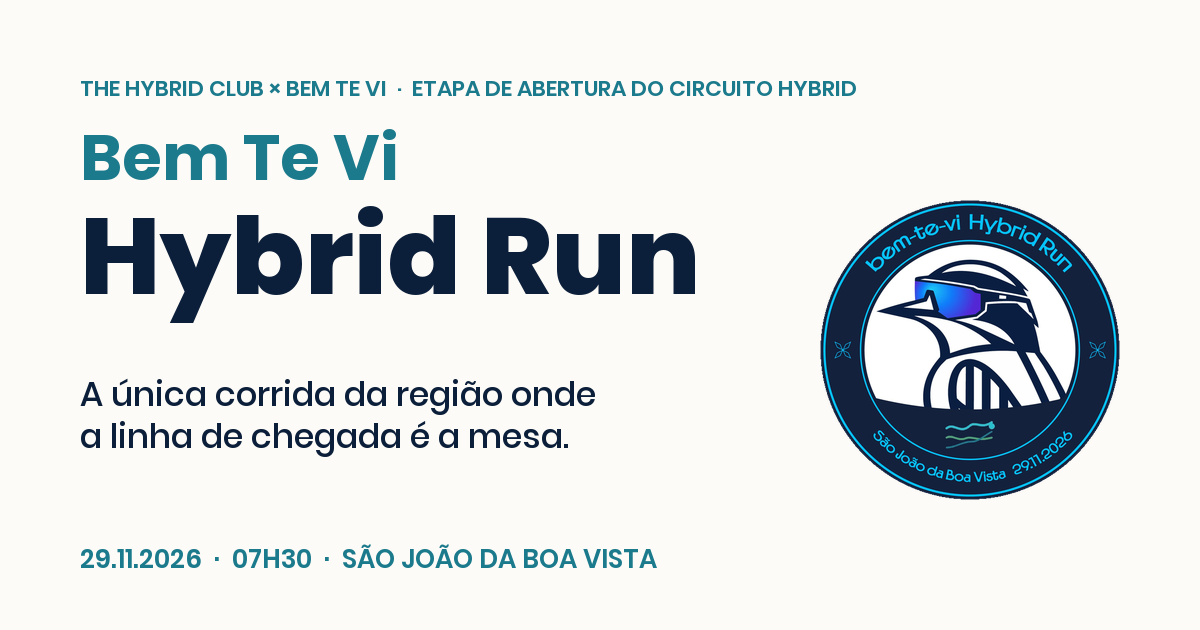
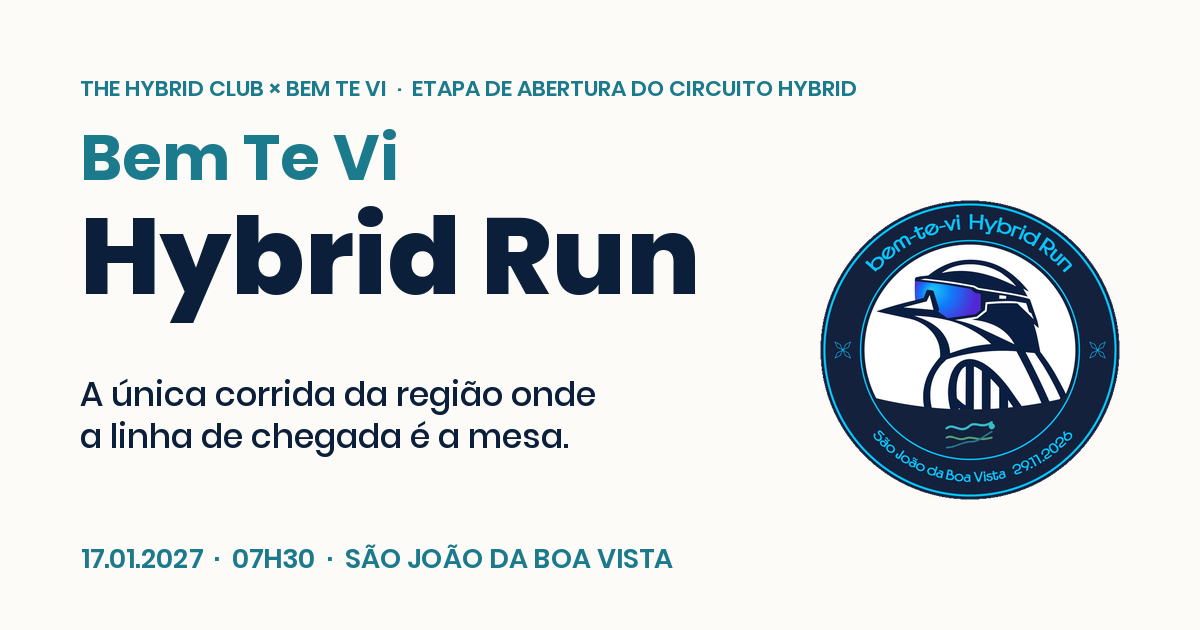
Nova data 17/01/2027 e valor único R$ 130
Claude-Session: https://claude.ai/code/session_0129xWcRVQwWNUDRJ4S1sSdz

Changed region(s): [[0.0617, 0.8444, 0.555, 0.9048]]

diff --git a/src/lib/lotes.js b/src/lib/lotes.js
@@ -56,6 +56,7 @@ export function loteState(event, now) {
 
 // Selo do hero. urgent = faltando 3 dias ou menos para virar o lote.
 export function badge(state) {
+  if (state.kind === 'lote' && state.lote.badge) return { text: state.lote.badge, urgent: false };
   if (state.kind === 'lote') {
     const n = daysLeft(state.msLeft);
     const label = state.lote.label.toUpperCase();
@@ -75,7 +76,7 @@ export function priceFor(event, state, distId, half = false) {
   if (!lote) return { current: null, next: null, label: 'Inscrições encerradas' };
   const current = lote.prices[distId] * f;
   const next = state.next ? { label: state.next.label, price: state.next.prices[distId] * f } : null;
-  const label = state.kind === 'fechado' ? 'No balcão, 27 e 28/11' : state.kind === 'balcao' ? 'Balcão, enquanto houver vaga' : lote.label;
+  const label = state.kind === 'fechado' ? 'No balcão, na retirada do kit' : state.kind === 'balcao' ? 'Balcão, enquanto houver vaga' : lote.label;
   return { current, next, label };
 }
 

diff --git a/src/scripts/dinamico.js b/src/scripts/dinamico.js
@@ -51,7 +51,7 @@ function renderLote() {
     else next.hidden = true;
   });
   const lab = $('[data-lote-label]');
-  if (lab) lab.textContent = st.kind === 'lote' ? `Preço do ${st.lote.label}${half ? ', com 50% de desconto' : ''}` : st.kind === 'encerrado' ? 'Inscrições encerradas' : priceFor(event, st, '5k').label;
+  if (lab) lab.textContent = st.kind === 'lote' ? `${st.lote.priceLabel ?? 'Preço do ' + st.lote.label}${half ? ', com 50% de desconto' : ''}` : st.kind === 'encerrado' ? 'Inscrições encerradas' : priceFor(event, st, '5k').label;
   const sp = priceFor(event, st, '5k');
   const sl = $('[data-sticky-label]'), spr = $('[data-sticky-price]');
   if (sl) sl.textContent = st.kind === 'lote' ? st.lote.label : sp.label;
